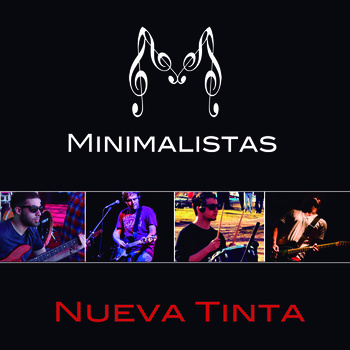
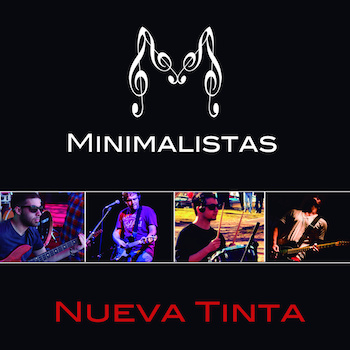
Added alan gallery, fixed minor bugs

diff --git a/col3.php b/col3.php
@@ -1,3 +1,11 @@
+
+		<h2>Encontranos!</h2>
+		<ul class="soc-ico">
+		<li><a href="http://www.facebook.com/minimalistasmusica"><img src="images/facebook.png" alt="facebook"></a></li>
+		<li><a href="http://www.twitter.com/losminimalistas"><img src="images/twitter.png" alt="twitter"></a></li>
+		<li><a href="http://www.youtube.com/minimalistasvevo"><img src="images/youtube.png" alt="youtube"></a></li>
+		</ul>
+	<br><br><br><hr><br>
 	<h2>Tweets Minimales</h2>
 		<div class="und">
 		
@@ -6,10 +14,3 @@
 
 
 		</div>
-
-		<h2>Encontranos!</h2>
-		<ul class="soc-ico">
-		<li><a href="http://www.facebook.com/minimalistasmusica"><img src="images/facebook.png" alt="facebook"></a></li>
-		<li><a href="http://www.twitter.com/losminimalistas"><img src="images/twitter.png" alt="twitter"></a></li>
-		<li><a href="http://www.youtube.com/minimalistasvevo"><img src="images/youtube.png" alt="youtube"></a></li>
-		</ul>

diff --git a/col1.php b/col1.php
@@ -10,8 +10,8 @@
 <div class="fb-like-box" data-href="http://www.facebook.com/minimalistasmusica" data-width="80" data-colorscheme="dark" data-show-faces="true" data-header="false" data-stream="false" data-show-border="false"></div>
 <br><br><br>
 <div class="p2">
-		<h2>La Dama</h2>
-		<img src="images/col-1-img1.png" class="p1" alt="CD Completo"> <a href="audio.php" class="more">Escuchar CD</a>
+		<h2>Nueva Tinta</h2>
+		<img src="images/col-1-img1.jpg" class="p1" alt="CD Completo"> <a href="audio.php" class="more">Escuchar CD</a>
 </div>
 <div class="p2">
 		<h2>Retrato al Despertar (VideoClip)</h2>
